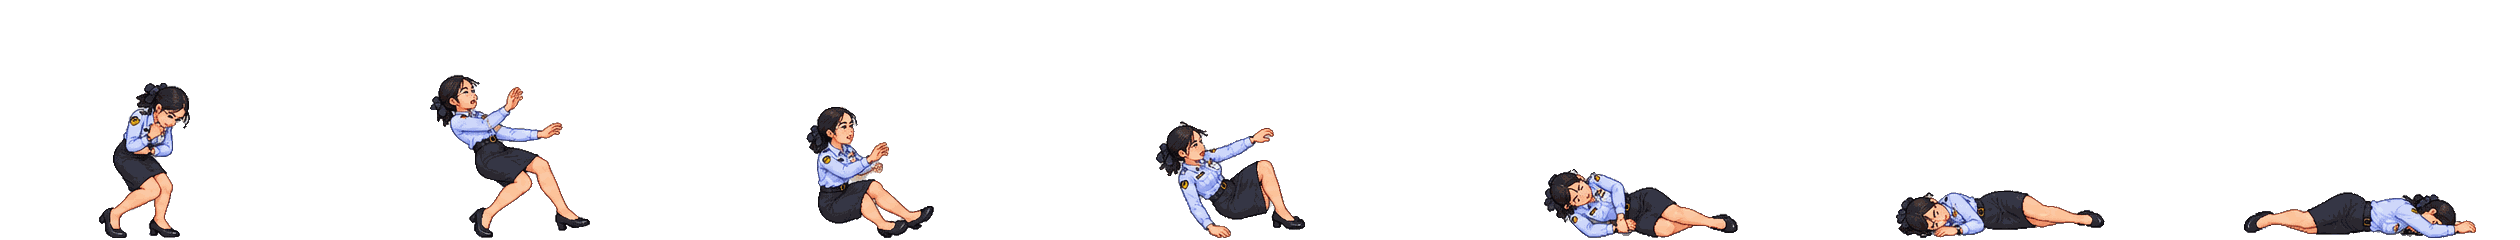
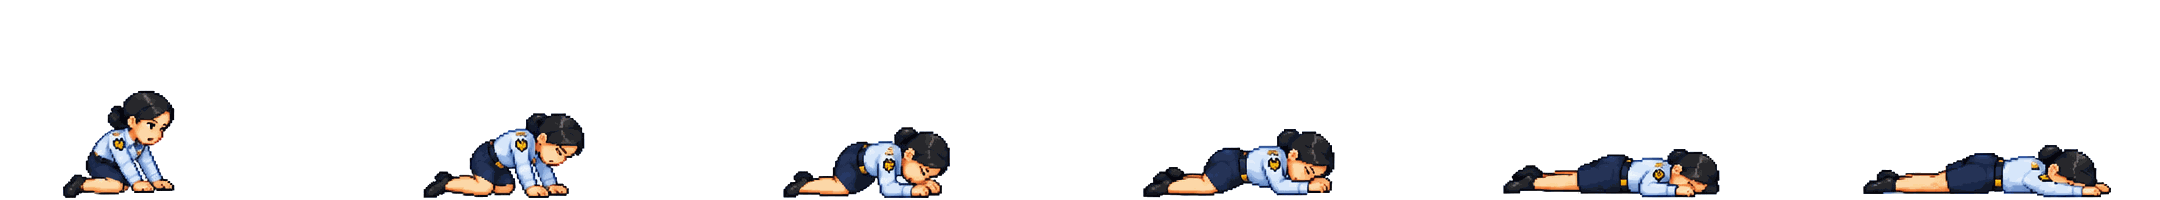
v75: Cream remodel — new character + attack-effects pixel sheets, real walk cycle, smooth anchored frames
Claude-Session: https://claude.ai/code/session_01VFZcD5MpvnMAPzCcrJgChf

Changed region(s): [[0.3102, 0.45, 0.9926, 0.99], [0.1551, 0.3, 0.2792, 0.99], [0.031, 0.36, 0.0931, 0.99]]

diff --git a/public/js/ql2/cream.js b/public/js/ql2/cream.js
@@ -2,7 +2,8 @@
    LETTERⁿ v73 — CREAM (ครีม) · สารวัตรหญิงหมัดเพลิงแดง
    --------------------------------------------------------------------------
    Sprites: "Meshy AI · character action spritesheet" + "fx sprite sheet (red)"
-   (supplied by the developer) — cut into heroes/cream/*.png. Every pose is
+   (supplied by the developer) — cut into heroes/cream/*.png. v75: remodelled from the
+   "Character Skirt" + "Attack Effects" pixel sheets. Every pose is
    anchored on one floor / one foot position; idle = fighting stance breathing.
 
    SPLIT ATTACK BUTTON (like X): top half 🔥 ชาร์จ · bottom half โจมตี/ปล่อย
@@ -22,26 +23,27 @@
 (function(){
   const CR = BALANCE.CREAM, K = 'cream', SVGNS = 'http://www.w3.org/2000/svg';
   const pc = x => `+${BALANCE.pct(x)}%`;
-  const S = .63;   // sheet is drawn ~197 px tall → same height as Mia / ELON
-  HERO_SPRITE.cream = { dir:'heroes/cream/', ch:240, scale:S, face:'-12 -128 40 40',
+  const S = .72;   // v75 sheet is drawn ~170 px tall → same height as Mia / ELON
+  // v75: "Meshy AI · Character Skirt Pixel Sprite Sheet" — clean pixel art; every frame on one floor,
+  // idle/attacks anchored on the feet, walk anchored on the hips (no wobble)
+  HERO_SPRITE.cream = { dir:'heroes/cream/', ch:200, scale:S, face:'-14 -118 36 36',
     anims:{
-      idle:   { n:12, cw:200, ax:90,  dur:1.7, loop:true },
-      walk:   { n:8,  cw:200, ax:90,  dur:.7,  loop:true, th:'ก้าวเท้า' },
-      hurt:   { n:3,  cw:220, ax:100, dur:.5 },
-      dead:   { n:7,  cw:360, ax:140, dur:1.4 },
+      idle:   { n:6,  cw:180, ax:80,  dur:1.2, loop:true },
+      walk:   { n:8,  cw:180, ax:80,  dur:.8,  loop:true, th:'เดิน' },
+      hurt:   { n:3,  cw:220, ax:100, dur:.45 },
+      dead:   { n:6,  cw:360, ax:110, dur:1.3 },
       guard:  { n:2,  cw:220, ax:90,  dur:.25, th:'🔥 ชาร์จ (การ์ด)' },
-      jab:    { n:2,  cw:240, ax:90,  dur:.2,  th:'แย็บ' },
-      cross:  { n:3,  cw:240, ax:90,  dur:.28, th:'หมัดตรง' },
-      kick:   { n:2,  cw:260, ax:90,  dur:.24, th:'เตะสูง' },
-      recover:{ n:3,  cw:220, ax:90,  dur:.4,  th:'ตั้งการ์ด' },
-      salute: { n:4,  cw:180, ax:80,  dur:.6,  th:'ทำความเคารพ' } },
-    attacks:['jab','cross','kick'], extra:['guard','recover','salute','walk'], demoOnly:true, finMin:99,
+      jab:    { n:2,  cw:240, ax:90,  dur:.16, th:'แย็บ' },
+      cross:  { n:3,  cw:240, ax:90,  dur:.27, th:'หมัดตรง' },
+      kick:   { n:3,  cw:280, ax:90,  dur:.3,  th:'เตะสูง' },
+      recover:{ n:2,  cw:220, ax:90,  dur:.3,  th:'ตั้งการ์ด' } },
+    attacks:['jab','cross','kick'], extra:['guard','recover','walk'], demoOnly:true, finMin:99,
     finNote:`ปุ่มโจมตีแบ่งครึ่ง: <b>🔥 ชาร์จ</b> เก็บดาเมจ + HEAT · <b>ปล่อย</b> = (ดาเมจที่เก็บ + คำนี้) × สูงสุด ×${CR.relMax} · HEAT 3+ CRIMSON RUSH · HEAT 5 RED MOON BREAKER · ไม่ชาร์จ: 3–4 ตัว แย็บ · 5–6 ตัว วันทู ${pc(CR.cross)} · 7+ / Critical เตะสูง ${pc(CR.kick)}` };
-  const FIST = { x: Math.round((160-90)*S), y: Math.round((237-79)*S) };
-  const FOOT = { x: Math.round((206-90)*S), y: Math.round((237-70)*S) };
-  // red FX sheet strips (w × h per frame, n frames) — the slash waves are drawn travelling LEFT on the sheet, so they are mirrored (flipX) to fly at the enemy
-  const FXS = { aurac:{ w:110, h:130, n:15 }, auras:{ w:112, h:108, n:14 }, slashh:{ w:160, h:92, n:12 }, slashv:{ w:150, h:133, n:11 },
-                burst:{ w:150, h:130, n:13 }, impact:{ w:160, h:100, n:12 }, dissipate:{ w:140, h:124, n:12 } };
+  const FIST = { x: Math.round((183-90)*S), y: Math.round((197-81)*S) };
+  const FOOT = { x: Math.round((226-90)*S), y: Math.round((197-64)*S) };
+  // effects: the attack-effects sheet (fist burst · kick crescent · ground blast) + the red aura sheet (charge · sustain · burst · dissipate)
+  const FXS = { fist:{ w:250, h:250, n:6 }, kick:{ w:250, h:227, n:6 }, ground:{ w:210, h:240, n:8 },
+                aurac:{ w:110, h:130, n:15 }, auras:{ w:112, h:108, n:14 }, burst:{ w:150, h:130, n:13 }, dissipate:{ w:140, h:124, n:12 } };
   Object.keys(FXS).forEach(k => { const i = new Image(); i.src = `heroes/cream/fx_${k}.png?v=${HERO_IMG_VER}`; });
   const fxAt = (k, o) => { const F = FXS[k]; try{ return window.QL_STRIP_FX ? QL_STRIP_FX(`heroes/cream/fx_${k}.png`, F.w, F.h, F.n, o) : null; }catch(e){ return null; } };
   // a looping strip glued to the hero (moves with her when she dashes)
@@ -75,7 +77,7 @@
     const st = document.createElement('style'); st.textContent = css; document.head.appendChild(st);
     Object.keys(c.anims).forEach(n => { const i = new Image(); i.src = `${c.dir}${n}.png?v=${HERO_IMG_VER}`; });
   })();
-  try{ HERO_PORTRAIT.cream = { src:'heroes/cream/portrait.png', w:56, h:56, vb:'0 0 56 56' }; }catch(e){}
+  try{ HERO_PORTRAIT.cream = { src:'heroes/cream/portrait.png', w:48, h:48, vb:'0 0 48 48' }; }catch(e){}
 
   CHARACTERS.push({ id:K, name:'Cream', th:'ครีม สารวัตรหญิงหมัดเพลิงแดง', price:7000, role:'ชาร์จ · ศิลปะการต่อสู้', skill:'หมัดเพลิงแดง',
     desc:`ปุ่มโจมตีแบ่งครึ่ง 🔥ชาร์จ / ปล่อย · ชาร์จ = เก็บดาเมจของคำ + HEAT 1 ขั้น (ศัตรูยังตีกลับ) ระหว่างมีออร่ารับดาเมจ -${BALANCE.pct(1-CR.guard)}% · ปล่อย = (ดาเมจที่เก็บ + คำนี้) × (1 + ${BALANCE.pct(CR.relStep)}% ต่อ HEAT สูงสุด ×${CR.relMax}) · HEAT 3+ CRIMSON RUSH ฟันรัวตาม HEAT ปิดด้วยเตะสูง · HEAT 5 RED MOON BREAKER ฟ้าแดง ฟันยักษ์ ทำลายท่าที่ศัตรูเตรียมไว้ · ไม่ชาร์จ: 3–4 ตัว แย็บ · 5–6 ตัว วันทู ${pc(CR.cross)} · 7 ตัวขึ้นไปหรือ Critical เตะสูง ${pc(CR.kick)}`,
@@ -192,15 +194,15 @@
   /* ------------------------------ moves ------------------------------ */
   const g0 = () => $('#heroG');
   function slashH(scale, ms, fromX){
-    const x1 = fromX || HERO_X + FIST.x, y = FLOOR_Y - FIST.y, x2 = EN_X - 30;
-    const s = fxAt('slashh', { flipX:true, x:x1, y, scale, loop:true, from:2, loopFrom:3, to:7, ms:40 });
+    const x1 = fromX || HERO_X + FIST.x, y = FLOOR_Y - FIST.y, x2 = EN_X - 40;
+    const s = fxAt('fist', { x:x1, y, scale:scale*.55, loop:true, from:0, loopFrom:1, to:3, ms:45 });
     if(!s) return sleep(ms||260);
-    return anim(s, [{transform:tr(x1,y)},{transform:tr(x2,y)}], { duration:ms||260, easing:'ease-in', fill:'forwards' }).then(() => s._stop());
+    return anim(s, [{transform:tr(x1,y)},{transform:tr(x2,y)}], { duration:ms||260, easing:'ease-in', fill:'forwards' }).then(() => { s._stop(); fxAt('fist', { x:x2, y, scale:scale*.6, from:3, to:5, ms:50 }); });
   }
   function hit(scale, big){
     const e = curEnemy(), y = enY(e);
     fxAt('burst', { x:EN_X-20, y, scale:(scale||1)*.9, ms:32 });
-    if(big) fxAt('impact', { x:EN_X-10, y:FLOOR_Y+8, anchor:'b', scale:big, ms:42 });
+    if(big) fxAt('ground', { x:EN_X-10, y:FLOOR_Y+14, anchor:'b', scale:big*.75, ms:48 });
     shake(!!big); try{ sfx.hit(!!big); }catch(err){}
   }
   async function dash(to, ms){ const g = g0(); return anim(g, [{transform:tr(HERO_X,FLOOR_Y)},{transform:tr(to,FLOOR_Y)}], { duration:ms||180, easing:'ease-out', fill:'forwards' }); }
@@ -241,7 +243,7 @@
       floatText('HIGH KICK!!', HERO_X+40, FLOOR_Y-185, '#ff6a7a', 28, true);
       heroPose('pose-kick', 560); whoosh();
       await dash(near, 170);
-      fxAt('slashv', { flipX:true, x:EN_X-40, y:enY(curEnemy())-10, scale:1.1, ms:36 });
+      fxAt('kick', { x:EN_X-60, y:enY(curEnemy())-10, scale:.7, ms:45 });
       await sleep(120); hit(1.1, .9);
       heroPose('pose-recover', 500); await back(near, 260); return;
     }
@@ -258,13 +260,13 @@
     for(let k=0;k<hits;k++){
       heroPose(k%2 ? 'pose-cross' : 'pose-jab', 260); whoosh();
       const y = enY(curEnemy()) + (k%3-1)*18;
-      fxAt('slashh', { flipX:true, x:EN_X-50, y, scale:.9 + (big?.3:0), ms:26, from:2, to:9 });
+      fxAt('fist', { x:EN_X-60, y, scale:.5 + (big?.15:0), ms:34 });
       await sleep(60); hit(.7 + k*.05);
       await sleep(mv==='strike' ? 140 : 90);
     }
     if(mv!=='strike'){
       heroPose('pose-kick', 600); whoosh();
-      fxAt('slashv', { flipX:true, x:EN_X-30, y:enY(curEnemy())-(big?30:10), scale: big ? 2.3 : 1.4, ms:34 });
+      fxAt('kick', { x:EN_X-50, y:enY(curEnemy())-(big?30:10), scale: big ? 1.4 : .9, ms:42 });
       await sleep(130);
       hit(1.4, big ? 1.7 : 1.1);
       if(big){ fxAt('burst', { x:EN_X-10, y:enY(curEnemy())-20, scale:2.2, ms:30 }); shake(true); try{ const fl = document.createElementNS(SVGNS,'rect'); ['x','y','width','height'].forEach((k2,i) => fl.setAttribute(k2, [-400,-300,1700,1100][i])); fl.setAttribute('fill','#ffd0d6'); $('#fx').appendChild(fl); anim(fl, [{opacity:.7},{opacity:0}], { duration:380 }).then(() => fl.remove()); }catch(err){} }
@@ -299,7 +301,7 @@
     const out = await f.apply(this, arguments);
     const b = ui.bat; if(!b || b.over) return out;
     b.busy = true;
-    heroPose('pose-salute', 1100);
+    heroPose('pose-guard', 1100);
     floatText('พร้อมปฏิบัติหน้าที่ค่ะ!', HERO_X+40, FLOOR_Y-165, '#ffd0d6', 22, true);
     await sleep(700);
     heroPose('pose-guard', 600);
@@ -309,7 +311,7 @@
     return out;
   })(intro);
   stageClear = (f => async function(){
-    if(isCream()){ const b = ui.bat; if(b){ b.crHeat = 0; b.crBank = 0; } dissipate(); heroPose('pose-salute', 1600); floatText('ภารกิจสำเร็จค่ะ!', HERO_X+30, FLOOR_Y-165, '#ffd0d6', 22, true); }
+    if(isCream()){ const b = ui.bat; if(b){ b.crHeat = 0; b.crBank = 0; } dissipate(); heroPose('pose-guard', 1600); floatText('ภารกิจสำเร็จค่ะ!', HERO_X+30, FLOOR_Y-165, '#ffd0d6', 22, true); }
     return f.apply(this, arguments);
   })(stageClear);
   // HEAT resets with a new stage

diff --git a/public/index.html b/public/index.html
@@ -9,9 +9,9 @@
 <meta name="apple-mobile-web-app-title" content="LETTERⁿ">
 <meta name="theme-color" content="#08070f">
 <meta name="description" content="LETTERⁿ — เกมสะกดคำภาษาอังกฤษสู้มอนสเตอร์">
-<link rel="manifest" href="manifest.json?v=74">
-<link rel="icon" href="icons/icon-192.png?v=74">
-<link rel="apple-touch-icon" href="icons/apple-touch-icon.png?v=74">
+<link rel="manifest" href="manifest.json?v=75">
+<link rel="icon" href="icons/icon-192.png?v=75">
+<link rel="apple-touch-icon" href="icons/apple-touch-icon.png?v=75">
 <meta name="apple-mobile-web-app-capable" content="yes">
 <title>LETTERⁿ — Word Battle RPG</title>
 <link rel="preconnect" href="https://fonts.googleapis.com">
@@ -1333,20 +1333,20 @@ button,.tile{touch-action:manipulation;-webkit-tap-highlight-color:transparent}
   .modal-box,.sheet{max-height:92vh;overflow-y:auto}
 }
 </style>
-<link rel="stylesheet" href="css/ql2.css?v=74">
-<link rel="stylesheet" href="css/endgame.css?v=74">
-<link rel="stylesheet" href="css/battle.css?v=74">
-<link rel="stylesheet" href="css/ui26.css?v=74">
-<link rel="stylesheet" href="css/boss.css?v=74">
-<link rel="stylesheet" href="css/tactics.css?v=74">
-<link rel="stylesheet" href="css/ecl.css?v=74">
+<link rel="stylesheet" href="css/ql2.css?v=75">
+<link rel="stylesheet" href="css/endgame.css?v=75">
+<link rel="stylesheet" href="css/battle.css?v=75">
+<link rel="stylesheet" href="css/ui26.css?v=75">
+<link rel="stylesheet" href="css/boss.css?v=75">
+<link rel="stylesheet" href="css/tactics.css?v=75">
+<link rel="stylesheet" href="css/ecl.css?v=75">
 </head>
 <body>
 <div id="app"></div>
-<script src="js/ql2/balance.js?v=74"></script>
-<script src="data/lexicon.js?v=74"></script>
-<script src="data/vocabulary.js?v=74"></script>
-<script src="js/ql2/vocab.js?v=74"></script>
+<script src="js/ql2/balance.js?v=75"></script>
+<script src="data/lexicon.js?v=75"></script>
+<script src="data/vocabulary.js?v=75"></script>
+<script src="js/ql2/vocab.js?v=75"></script>
 <script>window.__QL2 = 1; setTimeout(function(){ if(!window.__QL2_READY && typeof render==='function'){ window.__QL2 = 0; render(); } }, 5000);</script>
 <div class="toasts" id="toasts"></div>
 <div id="overlay"></div>
@@ -1794,7 +1794,7 @@ const ARMOR_OV = {
 */
 const HERO_IMG = {
 };
-const HERO_IMG_VER = 26; // เปลี่ยนภาพแล้วภาพเก่ายังค้าง → เพิ่มเลขนี้ทีละ 1
+const HERO_IMG_VER = 27; // เปลี่ยนภาพแล้วภาพเก่ายังค้าง → เพิ่มเลขนี้ทีละ 1
 function heroImgSVG(cfg){
   const h = cfg.h || 160, w = h, x = -w/2 + (cfg.dx||0), y = -h + (cfg.dy||0);
   const src = cfg.src + (cfg.src.includes('?') ? '&' : '?') + 'v=' + HERO_IMG_VER;
@@ -6076,7 +6076,7 @@ render();
 setMusic(save.settings.music);
 if('serviceWorker' in navigator && location.protocol.startsWith('http')) navigator.serviceWorker.register('service-worker.js', { updateViaCache:'none' }).then(r=>{ window.__swReg = r; }).catch(()=>{});
 /* v66: never run a half-updated game — if the server has a newer version, reload once (not in the middle of a battle / exam) */
-const APP_VERSION = 74;
+const APP_VERSION = 75;
 (function(){
   let busy = false;
   async function check(){
@@ -7069,41 +7069,41 @@ document.documentElement.classList.add('v16');
 if(ui.screen!=='battle') render();
 </script>
 <!-- Quest Lines 2.0 — World & Progression (loaded after the game; wraps it, never replaces the battle) -->
-<script src="js/ql2/core.js?v=74"></script>
-<script src="js/ql2/quests.js?v=74"></script>
-<script src="js/ql2/shell.js?v=74"></script>
-<script src="js/ql2/settings.js?v=74"></script>
-<script src="js/ql2/hub.js?v=74"></script>
-<script src="js/ql2/world.js?v=74"></script>
-<script src="js/ql2/questboard.js?v=74"></script>
-<script src="js/ql2/heroes.js?v=74"></script>
-<script src="js/ql2/inventory.js?v=74"></script>
-<script src="js/ql2/codex.js?v=74"></script>
-<script src="js/ql2/profile.js?v=74"></script>
-<script src="js/ql2/endgame-core.js?v=74"></script>
-<script src="js/ql2/endgame-modes.js?v=74"></script>
-<script src="js/ql2/endgame-ui.js?v=74"></script>
-<script src="js/ql2/armory.js?v=74"></script>
-<script src="js/ql2/items.js?v=74"></script>
-<script src="js/ql2/more.js?v=74"></script>
-<script src="js/ql2/wordfx.js?v=74"></script>
-<script src="js/ql2/boss-encounter.js?v=74"></script>
-<script src="js/ql2/zombies.js?v=74"></script>
-<script src="js/ql2/bestiary.js?v=74"></script>
-<script src="js/ql2/kirby.js?v=74"></script>
-<script src="js/ql2/knight.js?v=74"></script>
-<script src="js/ql2/unlocks.js?v=74"></script>
-<script src="js/ql2/tactics.js?v=74"></script>
-<script src="js/ql2/events.js?v=74"></script>
-<script src="js/ql2/ecl.js?v=74"></script>
-<script src="js/ql2/luffy.js?v=74"></script>
-<script src="js/ql2/sonic.js?v=74"></script>
-<script src="js/ql2/heroplus.js?v=74"></script>
-<script src="js/ql2/heroup.js?v=74"></script>
-<script src="js/ql2/ultcharge.js?v=74"></script>
-<script src="js/ql2/yota.js?v=74"></script>
-<script src="js/ql2/cream.js?v=74"></script>
-<script src="js/ql2/title.js?v=74"></script>
-<script src="js/ql2/dev.js?v=74"></script>
-<script src="js/ql2/boot.js?v=74"></script>
+<script src="js/ql2/core.js?v=75"></script>
+<script src="js/ql2/quests.js?v=75"></script>
+<script src="js/ql2/shell.js?v=75"></script>
+<script src="js/ql2/settings.js?v=75"></script>
+<script src="js/ql2/hub.js?v=75"></script>
+<script src="js/ql2/world.js?v=75"></script>
+<script src="js/ql2/questboard.js?v=75"></script>
+<script src="js/ql2/heroes.js?v=75"></script>
+<script src="js/ql2/inventory.js?v=75"></script>
+<script src="js/ql2/codex.js?v=75"></script>
+<script src="js/ql2/profile.js?v=75"></script>
+<script src="js/ql2/endgame-core.js?v=75"></script>
+<script src="js/ql2/endgame-modes.js?v=75"></script>
+<script src="js/ql2/endgame-ui.js?v=75"></script>
+<script src="js/ql2/armory.js?v=75"></script>
+<script src="js/ql2/items.js?v=75"></script>
+<script src="js/ql2/more.js?v=75"></script>
+<script src="js/ql2/wordfx.js?v=75"></script>
+<script src="js/ql2/boss-encounter.js?v=75"></script>
+<script src="js/ql2/zombies.js?v=75"></script>
+<script src="js/ql2/bestiary.js?v=75"></script>
+<script src="js/ql2/kirby.js?v=75"></script>
+<script src="js/ql2/knight.js?v=75"></script>
+<script src="js/ql2/unlocks.js?v=75"></script>
+<script src="js/ql2/tactics.js?v=75"></script>
+<script src="js/ql2/events.js?v=75"></script>
+<script src="js/ql2/ecl.js?v=75"></script>
+<script src="js/ql2/luffy.js?v=75"></script>
+<script src="js/ql2/sonic.js?v=75"></script>
+<script src="js/ql2/heroplus.js?v=75"></script>
+<script src="js/ql2/heroup.js?v=75"></script>
+<script src="js/ql2/ultcharge.js?v=75"></script>
+<script src="js/ql2/yota.js?v=75"></script>
+<script src="js/ql2/cream.js?v=75"></script>
+<script src="js/ql2/title.js?v=75"></script>
+<script src="js/ql2/dev.js?v=75"></script>
+<script src="js/ql2/boot.js?v=75"></script>
 </body></html>

diff --git a/public/service-worker.js b/public/service-worker.js
@@ -1,5 +1,5 @@
-const CACHE_NAME = 'quest-lines-v74';
-const V = '?v=74';
+const CACHE_NAME = 'quest-lines-v75';
+const V = '?v=75';
 const MODULES = ['balance','vocab','core','quests','shell','settings','hub','world','questboard','heroes','inventory','codex','profile','endgame-core','endgame-modes','endgame-ui','armory','items','more','wordfx','boss-encounter','zombies','bestiary','kirby','knight','unlocks','tactics','events','ecl','luffy','sonic','heroplus','heroup','ultcharge','yota','cream','title','dev','boot'];
 const APP_SHELL = ['./', './index.html', './manifest.json', './scenes/hub/cave.png', './title/logo.webp', './npc/merchant.png', './icons/icon-192.png', './icons/icon-512.png', './css/ql2.css' + V, './css/endgame.css' + V, './css/battle.css' + V, './css/ui26.css' + V, './css/boss.css' + V, './css/tactics.css' + V, './css/ecl.css' + V,
   './data/lexicon.js' + V, './data/vocabulary.js' + V,

diff --git a/public/heroes/README.md b/public/heroes/README.md
@@ -74,7 +74,7 @@ pip · mira · rook · bastion · luma · bruna · kiko · boomtos · puff
 - เอฟเฟกต์: `fx_orb` 11 (ลูกโลกชาร์จ) · `fx_muzzle` 4 · `fx_impact` 10 · `fx_dissolve` 9 · ลำแสงยาว/ลูกโป่งคำพูดวาดด้วย SVG ใน `yota.js` · `portrait.png` = หน้าในไอคอน HP
 
 ## Cream — โฟลเดอร์ `heroes/cream/`
-- ตัวละคร: "Meshy AI · character action spritesheet" (พื้นเทา + เงาใต้เท้าเทา → โปร่งใส) · เอฟเฟกต์: "Meshy AI · fx sprite sheet (red)" (พื้นดำ → ความโปร่งใสจากความสว่าง)
-- ทุกเฟรมวางบนพื้นเดียวกันและตำแหน่งเท้าเดียวกัน · ช่องสูง `ch:240` ย่อ `scale:.63` ให้เท่าฮีโร่ตัวอื่น · 256 สี
-- ท่า: idle 12 (ท่าการ์ด + หายใจ) · walk 8 (ก้าวเท้าแบบนักมวย สร้างจากท่าการ์ด — ชีตไม่มีแถวเดิน) · guard 2 · jab 2 · cross 3 · kick 2 · recover 3 · salute 4 · hurt 3 · dead 7
-- เอฟเฟกต์: `fx_aurac` 15 · `fx_auras` 14 (วนรอบตัวตอนมี HEAT) · `fx_slashh` 12 · `fx_slashv` 11 · `fx_burst` 13 · `fx_impact` 12 · `fx_dissipate` 12 · `portrait.png` = หน้าในไอคอน HP
+- ตัวละคร (v75): "Meshy AI · Character Skirt Pixel Sprite Sheet" (พื้นขาว → โปร่งใส) · เอฟเฟกต์โจมตี: "Meshy AI · Attack Effects Pixel Sprite Sheet" (พื้นขาว) · ออร่า: "Meshy AI · fx sprite sheet (red)" ชุดเดิม (พื้นดำ)
+- ทุกเฟรมวางบนพื้นเดียวกัน · ท่ายืน/โจมตียึดตำแหน่งเท้า · ท่าเดินยึดสะโพก (ไม่ส่าย) · ช่องสูง `ch:200` ย่อ `scale:.72` ให้เท่าฮีโร่ตัวอื่น · 256 สี
+- ท่า: idle 6 · walk 8 · guard 2 · jab 2 · cross 3 · kick 3 · recover 2 · hurt 3 · dead 6
+- เอฟเฟกต์: `fx_fist` 6 (หมัดพุ่ง → ระเบิด) · `fx_kick` 6 (เสี้ยวเตะ) · `fx_ground` 8 (พื้นระเบิด) · `fx_aurac` 15 · `fx_auras` 14 · `fx_burst` 13 · `fx_dissipate` 12 · `portrait.png` = หน้าในไอคอน HP

diff --git a/README.md b/README.md
@@ -23,6 +23,7 @@
 - ⚔ Ultimate: **CRIMSON ULTIMATE** ฟันรัว 7 ครั้ง · Ultimate แท็กติก: **BLOOD AURA** HEAT +2 + ขัดท่าศัตรู · เกจเฉพาะตัว CRIMSON HEAT (ทุกครั้งที่ชาร์จ / ปล่อย RUSH)
 - ใช้ครบทุกเอฟเฟกต์ในชีตแดง: ออร่าชาร์จ · ออร่าคลุมตัว (ใหญ่ขึ้นตาม HEAT) · คลื่นฟันแนวนอน · คลื่นฟันแนวตั้ง · ระเบิดพลังงาน · พื้นระเบิด · สลายตัว (ตอนปล่อยพลัง/ตอนแพ้)
 - เข้าฉากทำความเคารพ "พร้อมปฏิบัติหน้าที่ค่ะ!" · ผ่านด่าน "ภารกิจสำเร็จค่ะ!" · ปลดล็อก: ผ่านบท 4 + เลือก 2 ใน 3 (คอมโบ 12 · Ultimate 12 · Flawless 4) · 7,000 ทอง · ตัวเลขอยู่ที่ `BALANCE.CREAM`
+- **v75 (รีโมเดล Cream):** ตัวละครชุดใหม่จาก "Character Skirt Pixel Sprite Sheet" — ท่ายืน 6 · **เดินจริง 8 เฟรม** · แย็บ · หมัดตรง · เตะสูง · โดนตี · ล้ม · เอฟเฟกต์โจมตีชุดใหม่ (หมัดพุ่ง · เสี้ยวเตะ · พื้นระเบิด) จาก "Attack Effects Pixel Sprite Sheet" · ออร่าชาร์จ/ออร่าคลุมตัว/ระเบิด/สลายตัวใช้ชุดแดงเดิม · สกิลและตัวเลขเหมือนเดิม
 - **v74:** คลื่นฟันของ Cream (แนวนอน/แนวตั้ง) กลับด้านให้พุ่งไปทางศัตรู — ในชีตวาดให้พุ่งไปทางซ้าย
 - **Luffy · Sonic · YOTA ปล่อยให้ผู้เล่นทุกคนแล้ว** (ไม่ต้องเข้าโหมดทดสอบ) — ปลดล็อกตามเงื่อนไขของแต่ละตัว
 
